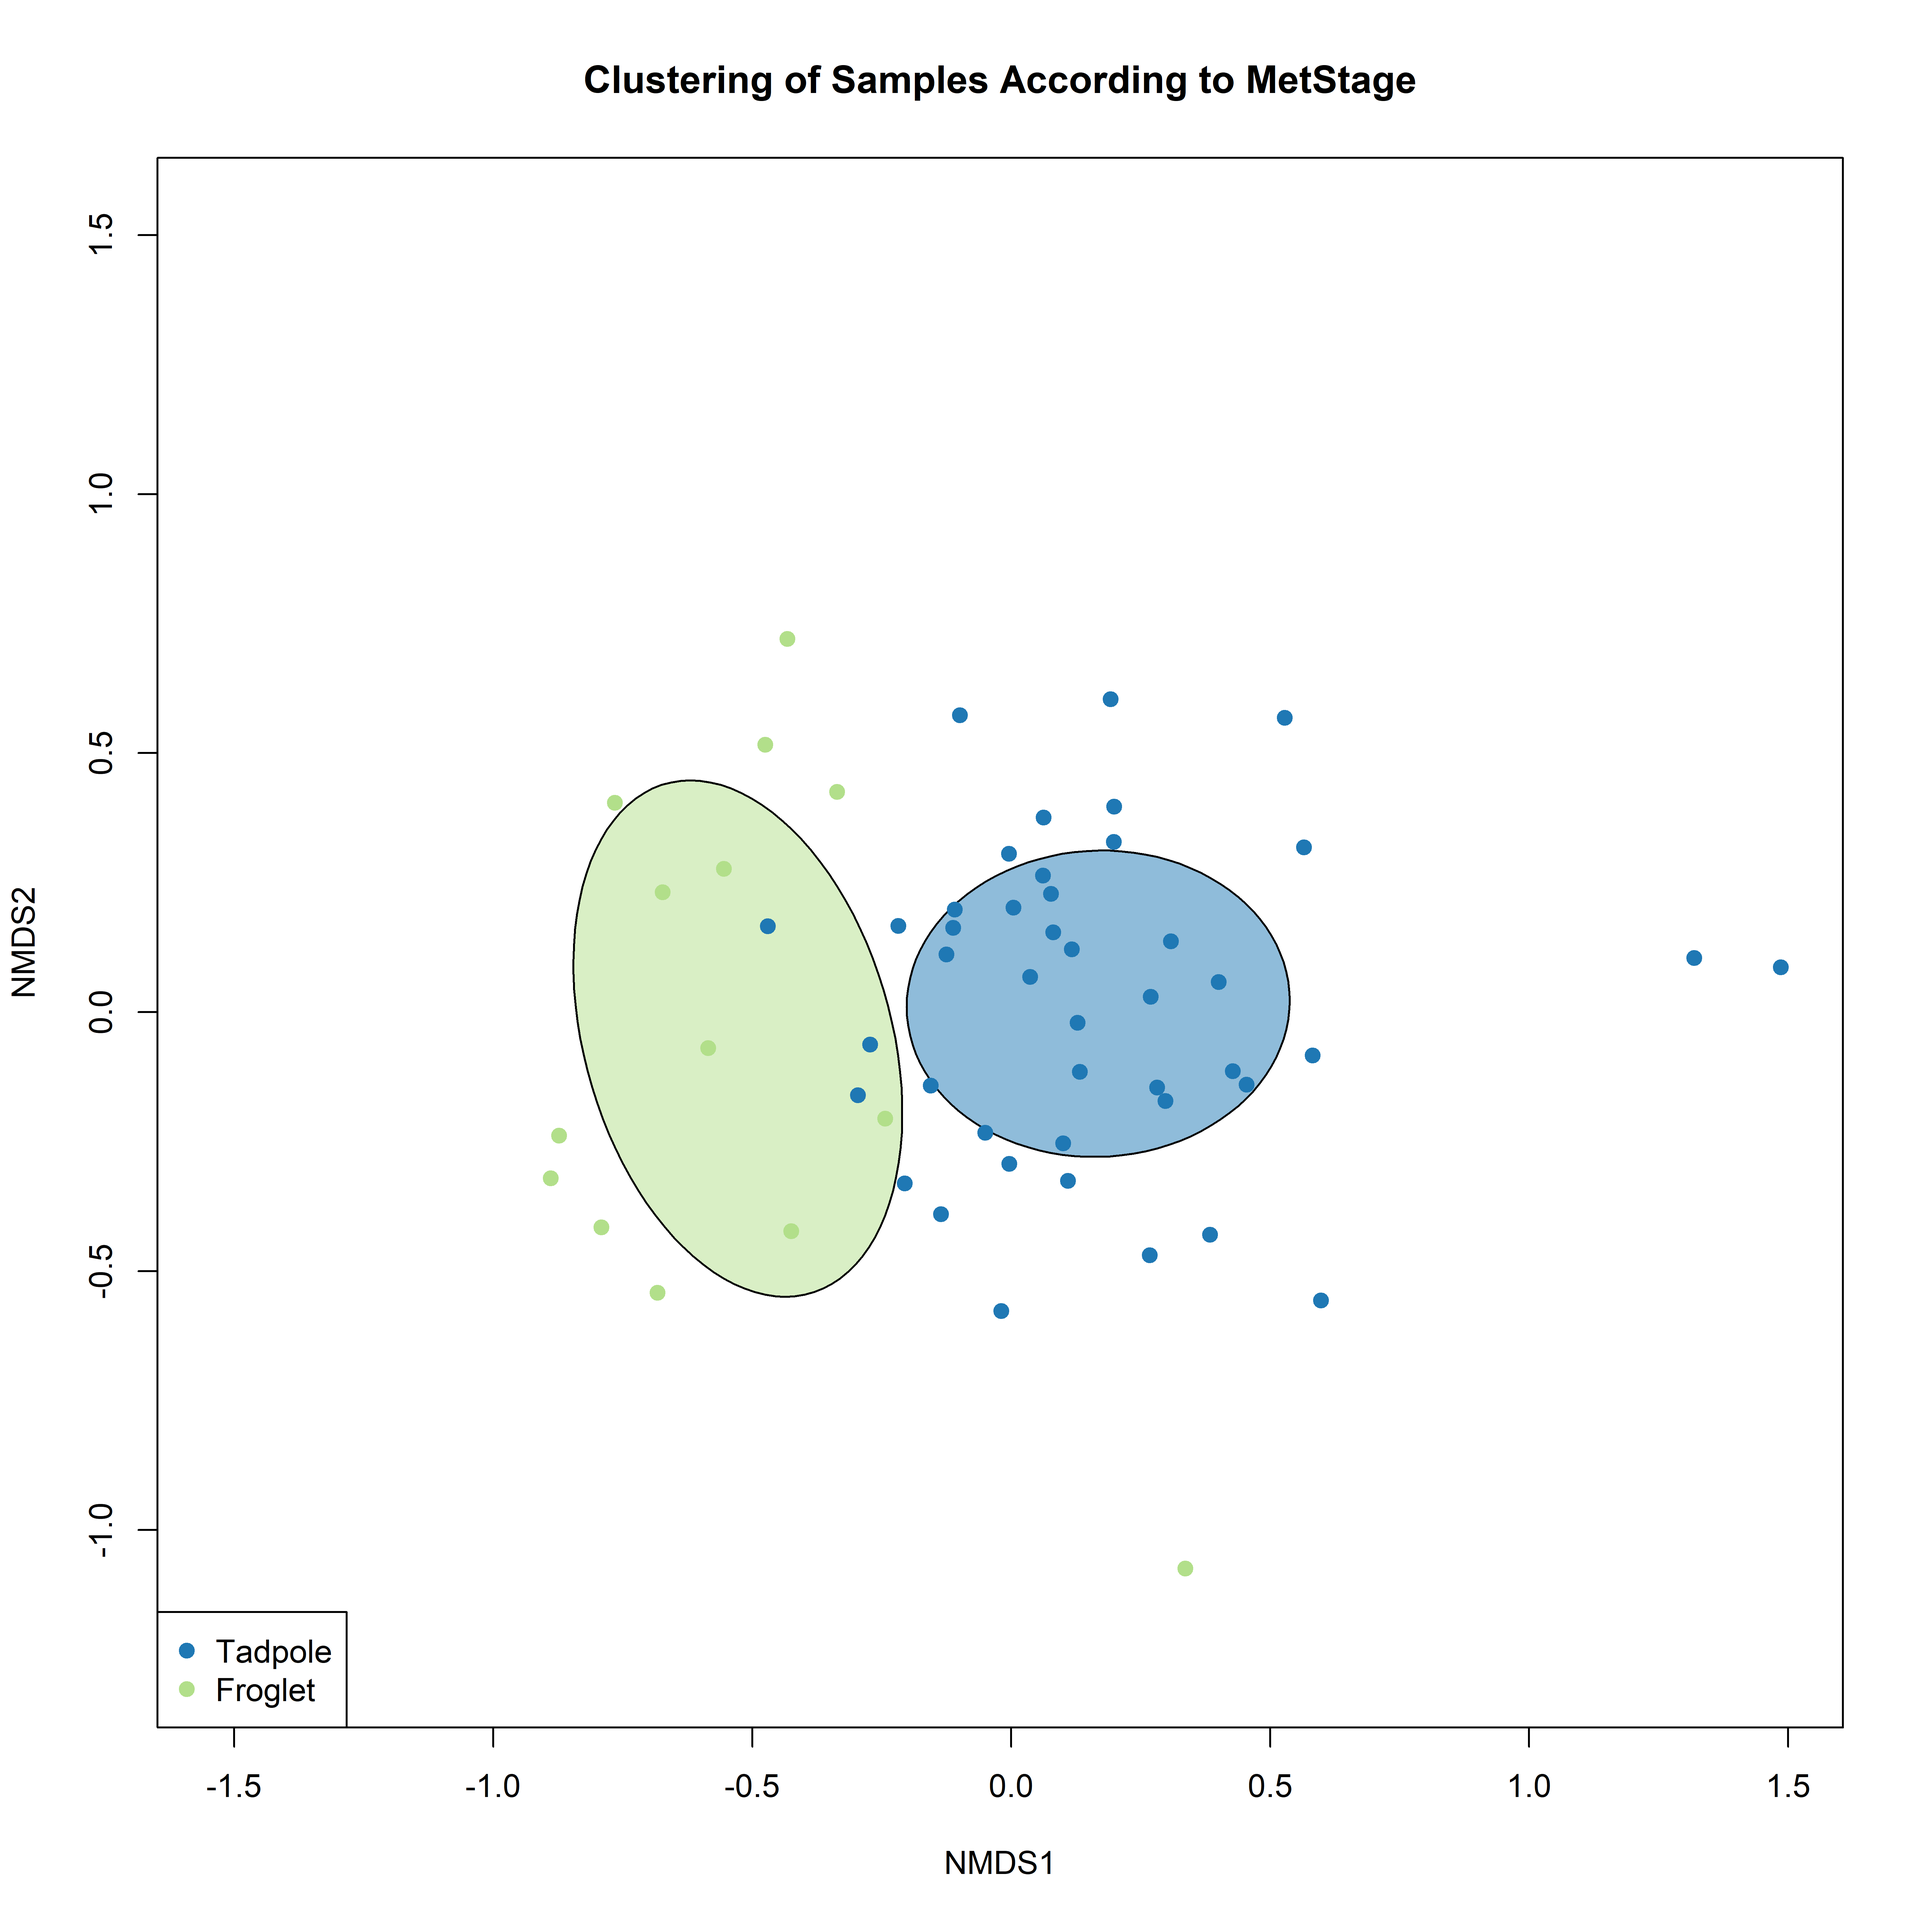
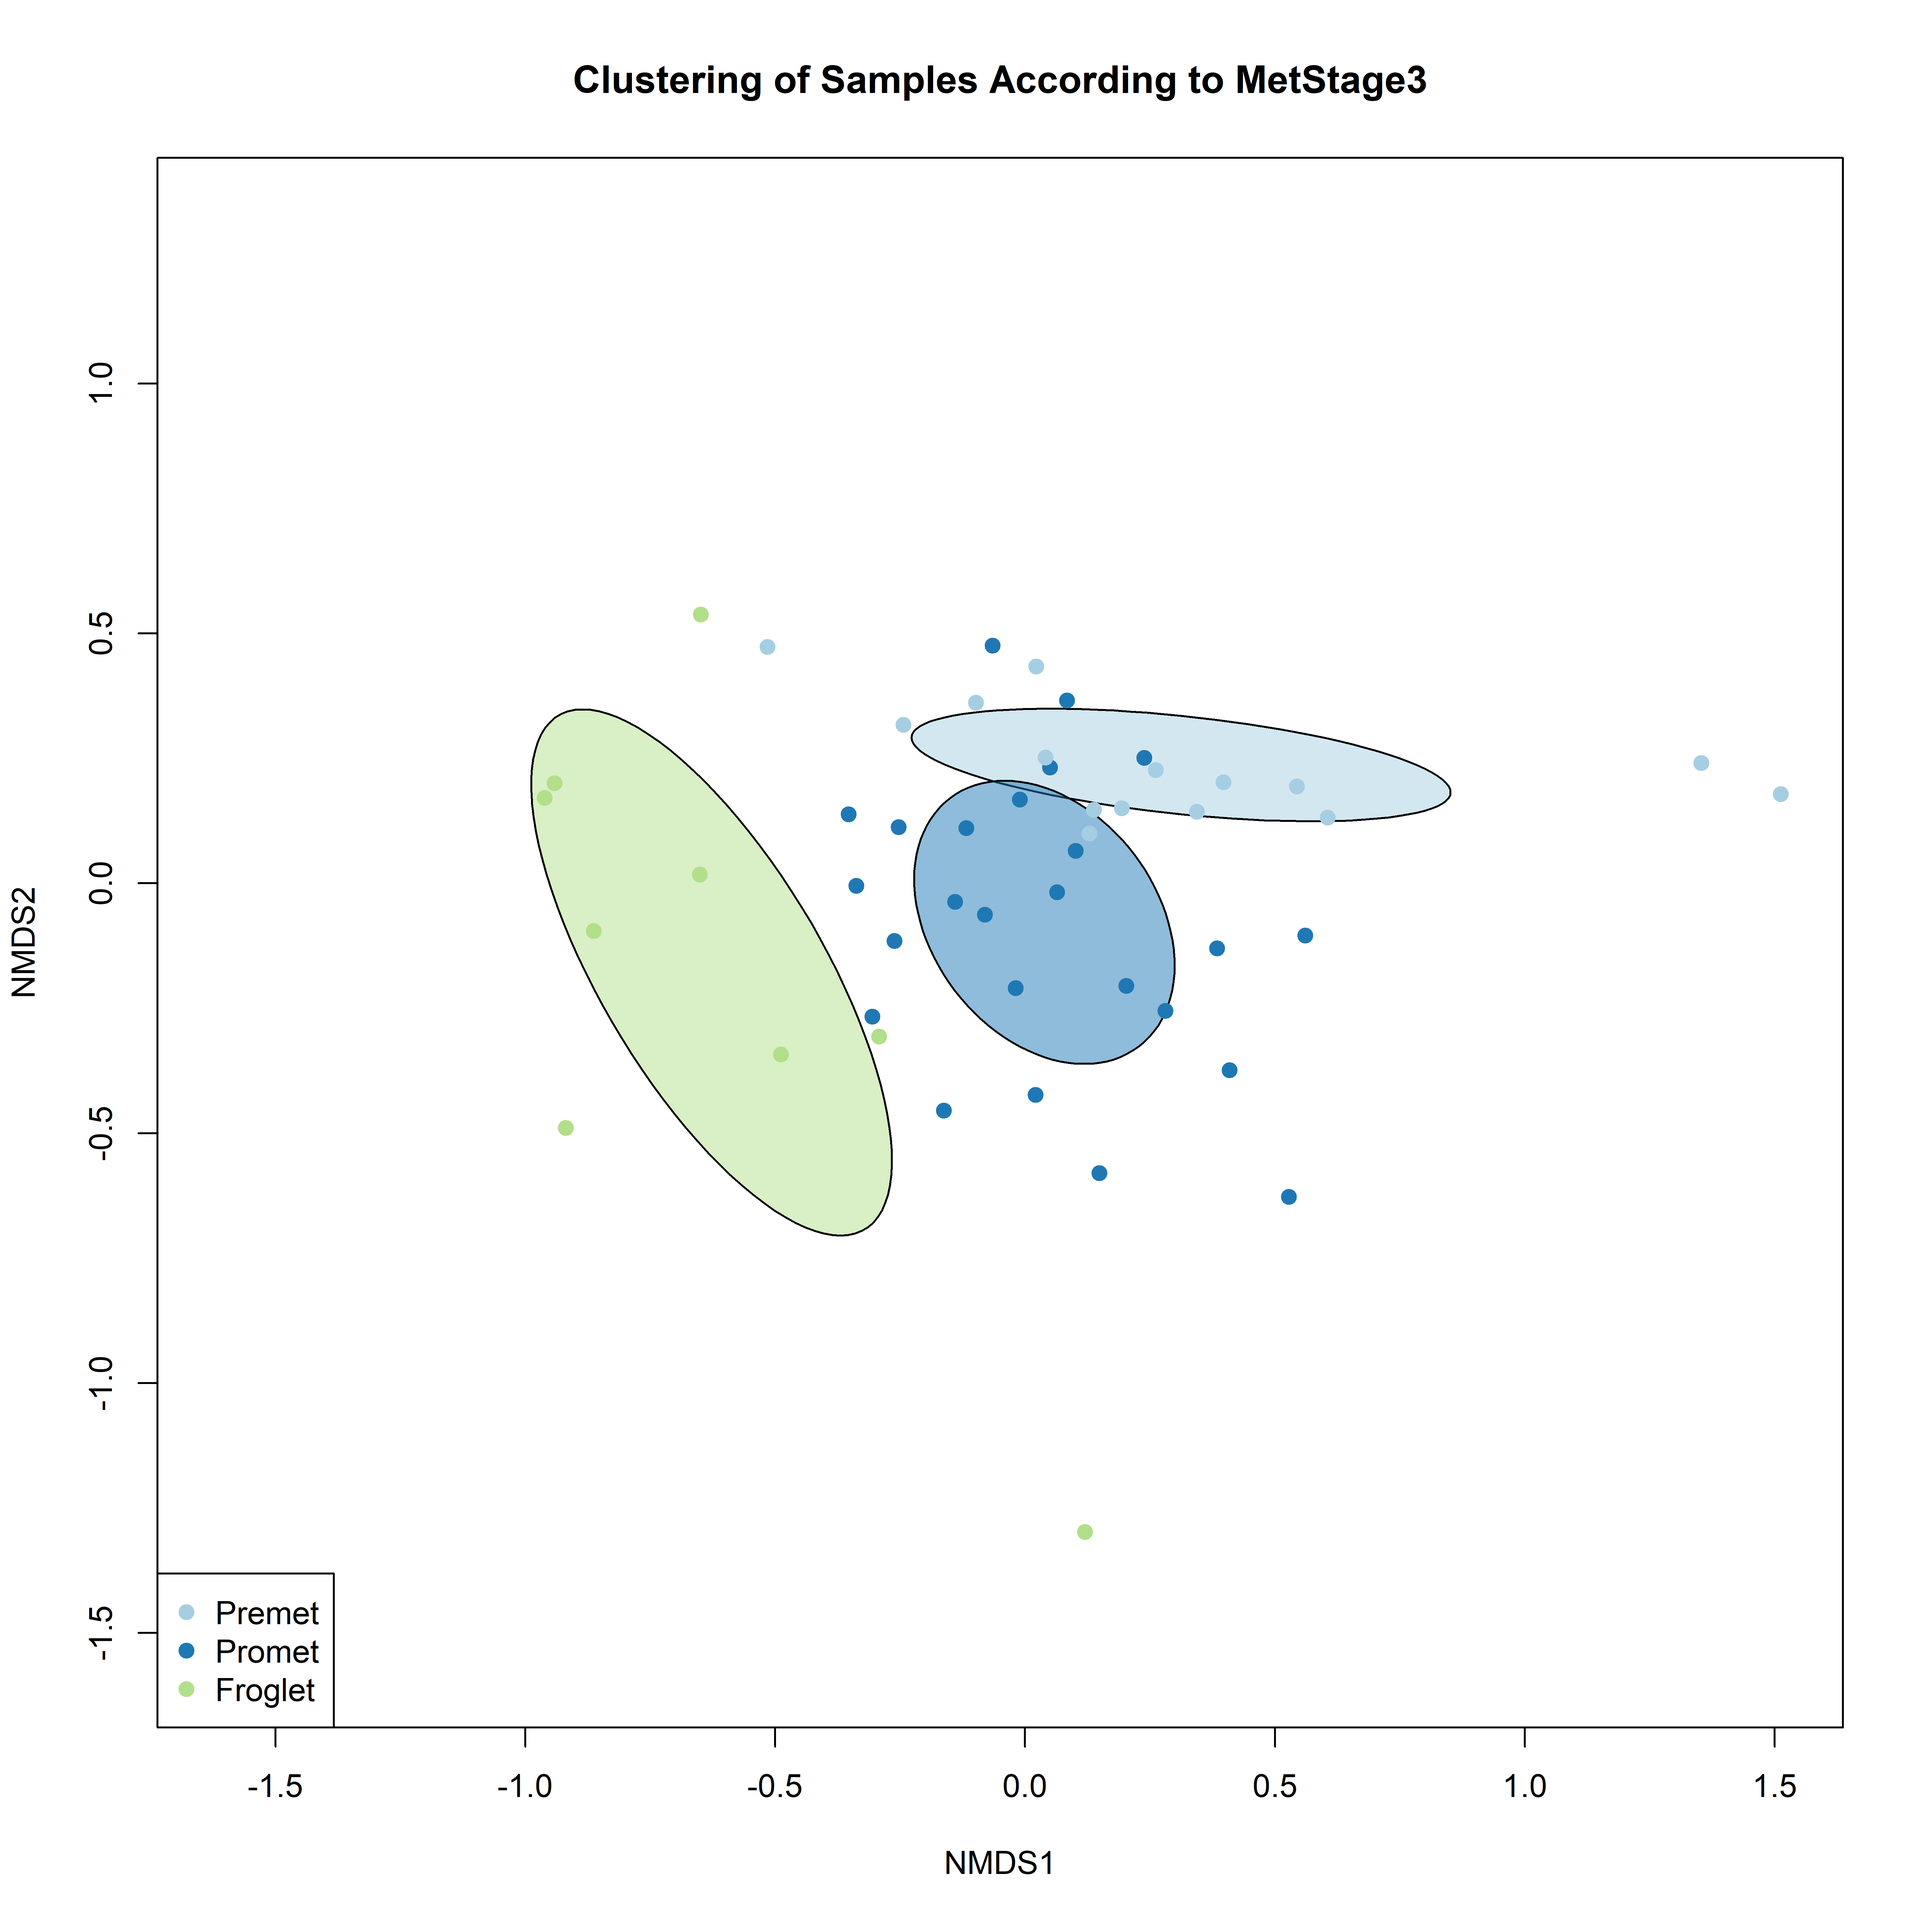
new plots removing pilot data and separation of tadpoles into pre/promet; manuscript updates

diff --git a/content/02.introduction.md b/content/02.introduction.md
@@ -1,15 +1,5 @@
 ## Introduction {#main}
 
-Previous work used RNA-Seq and Kraken filtering to demonstrate that Ranavirus infection resulted in a differential abundance of bacterial transcripts from specific bacterial communities.
-I have applied the same Kraken filtering techniques to RNA-Seq datasets from tail fin (TF) and olfactory epithelium (OE) tissues from pre-metamorphic bullfrog tadpoles exposed to either E2, T4, or T3.
-This data will be paired with traditional 16S rRNA sequencing methods to examine the effects these exposures have on the Rana catesbeiana bacterial and viral communities.
-
-Microbiome and why study it?
-Environmental changes don’t just impact large animals, but also effect microbes that play pivotal role in an ecosystem. 
-Every niche/surface/environment has a specific microbial community which contribute to the function of the system. 
-
-Why using frog to study environmental pollutants?
-
 Bullfrog developmental models are very sensitive to exogenous T3, as well as their sex ratios are affected by endocrine disruption in the environment. 
 Therefore bullfrogs’ skin can act as a sensitive model to study effects of hormones and disruptors on the environment. 
 Frog metamorphosis represents the most accessible and striking example of TH action. 
@@ -21,6 +11,15 @@ These changes are precociously induced in the premetamorphic tadpole by exogenou
 Our frog species, Ranidae frogs
 The current OECD 21 day assay evaluates the whole organismal response with assessment of external morphological criteria at days 7 and 21 and qualitative assessment of thyroid gland morphology at day 21. It relies upon highly inbred laboratory strains of Xenopus species that are not relevant to the North American environment.
 
+Previous work used RNA-Seq and Kraken filtering to demonstrate that Ranavirus infection resulted in a differential abundance of bacterial transcripts from specific bacterial communities.
+I have applied the same Kraken filtering techniques to RNA-Seq datasets from tail fin (TF) and olfactory epithelium (OE) tissues from pre-metamorphic bullfrog tadpoles exposed to either E2, T4, or T3.
+This data will be paired with traditional 16S rRNA sequencing methods to examine the effects these exposures have on the Rana catesbeiana bacterial and viral communities.
+
+The skin microbiome of land and marine animals contains highly diverse microbial communities that is characteristic of it's host [@doi:10.1038/s41598-017-15220-z].
+As microbiome studies become popular, research had shown that the skin micobiota changes between host life stages, environmental conditions, health state, and geographical locations [@doi:10.1111/mec.12899;@doi:10.1038/ncomms11833;@doi:10.1093/femsec/fiw109]. 
+Often, the skin is the first barrier to contaminants and support antagonistic effects against stressors [@doi:10.1038/ncomms2441;@doi:10.1016/j.jaci.2016.09.019;@doi:10.1038/jid.2009.243]. 
+While the skin microbiome of marine and land mammals has been of interest recent years [@doi:10.1186/s40168-019-0694-6], very little is known about the skin microbiota of amphibians, especially the effects of natural metamorphosis on their skin microbiota.
+Given the successful identification of microbiome biomarkers in human, animal, and environmental settings [@doi:10.1128/JB.00542-10;@doi:10.1073/pnas.1606631113;@doi:10.3389/fenvs.2015.00084], the skin microbiome of tadpoles and frogs may represents an innovative biomarker approach to monitor environmental contaminants exposure
 
 This work is part of the WEC project in which the response of pre-metamorphic tadpoles is measured to 3 different hormone treatments: Thyroxine (T4), triiodothyronine (T3), and 17-beta-estradiol (E2). 
 T4 is the precursor to the more bioactive thyroid hormone, T3. 

diff --git a/content/01.abstract.md b/content/01.abstract.md
@@ -6,12 +6,12 @@ Current wastewater regulations, testing methodologies and management strategies 
 The effect of EDCs in seen in a North American Xenopus  (bullfrog)  metamorphosis model, where transformation of an aquatic tadpole into a juvenile frog can be disrupted by their presence. 
 Although there is the potential to use amphibian metamorphosis as an assay for EDC presence, current methodologies rely on a 21-day morphological assessment. 
 However, the use of microbiome profiling is quickly emerging as a novel tool for understanding environmental toxicants and their impact with a lower detection threshold than current chemical tests. 
-Here, we used 16S rRNA sequencing to profile the skin microbiome of the bullfrog at different developmental stages as well as upon exposure to thyroid hormones T3 and T4 to investigate if the bullfrog skin microbiome can be used as an indicator of environmental EDC contamination. 
-We found that T3 exposure but not T4 exposure had an effect on tadpole skin microbiomes. 
-We found that the bacterial communities on the skin of older frogs had significantly lower alpha diversity and higher abundance of a Luteolibacter sp. than found on younger frogs. 
-The thyroid hormone T4, which strongly affects frog development and metamorphosis, had a significant effect on the skin microbiome. 
-These results suggest that ECD-contaminated waste water exposure can have minimal direct effects on the Lithobates catesbeianus skin microbiome, unless the EDC has a strong effect on the host animal, in this case with metamorphic progress. 
-Taken together with the differences observed in the microbiome with metamorphic stage, these results demonstrate that the Lithobates catesbeianus skin microbiome is predominantly determined by the host animal. 
+Here, we used 16S rRNA sequencing to profile the skin microbiome of the bullfrog at different developmental stages as well as upon exposure to thyroid hormones T3 and T4 to investigate if the bullfrog skin microbiome can be used as an indicator of environmental EDC contamination.
+We found that bacterial communities on the frog's skin shifts as they develop from tadpoles to froglets. 
+This is characterizied by a significantly reduction in alpha diversity and increased abundance of a Verrucomicrobia sp. in froglets than found on younger frogs. 
+However, neither acute T3 or T4 exposure had a significant effect on the tadpole's skin microbiomes. 
+These results suggest that acute hormone exposure via ECD-contaminated waste water can have minimal direct effects on the Lithobates catesbeianus skin microbiome.
+Taken together with the differences observed in the microbiome with metamorphic stage, the skin microbiome is predominantly determined by the host animal. 
 This suggests that the skin microbiome may be a suitable tool to monitor EDCs at levels that are biologically consequential without a tendency for false positives. 
 
 ## Keywords

diff --git a/content/07.figures.md b/content/07.figures.md
@@ -14,7 +14,7 @@
 
 ![**Alpha diversity of tadpoles are higher compared to froglets**. Froglets (cyan) exhibited a significant (q<0.01) decrease in alpha diversity as measured by the Shannon Index compared to tadpoles (orange).](images/alphadiv_natural.png){#fig:alphadiv_natural width="6.5in"}
 
-![**Relative phyla abundances of the tadpole microbiomes that was exposed to T3 and T4**. The skin microbiomes (X-axis) of the tadpoles, classified according to their stage of development (bottom categories), are composed of 9 major phyla. No significant shifts in microbial communities occured with tadpole development regardless of hormone exposure.   ](images/barplot_phylumnatural.png){#fig:barplot_phylumnatural width="6.5in"}
+![**Relative phyla abundances of the tadpole microbiomes that was exposed to T3 and T4**. The skin microbiomes (X-axis) of the tadpoles, classified according to their stage of development (bottom categories), are composed of 9 major phyla. No significant shifts in microbial communities occured with tadpole development regardless of hormone exposure.   ](images/barplot_phylumhormone.png){#fig:barplot_phylumhormone width="6.5in"}
 
 ![**The sex of the frogs did not contribute to large changes in microbiome**. The sex of the frog had no significant impact on the community composition. ](images/cluster_sex.png){#fig:cluster_sex width="6.5in"}
 
